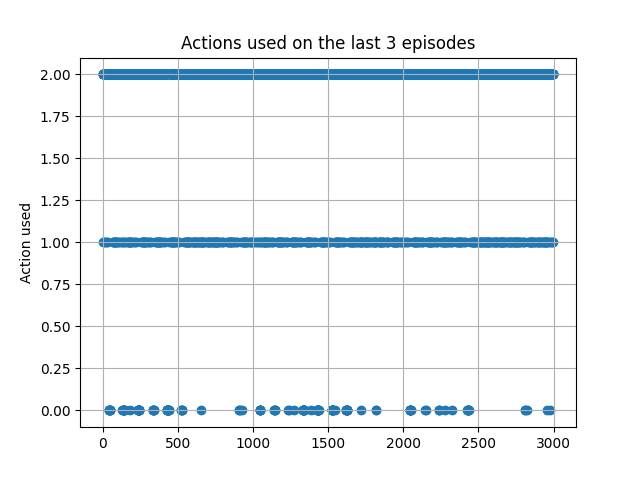
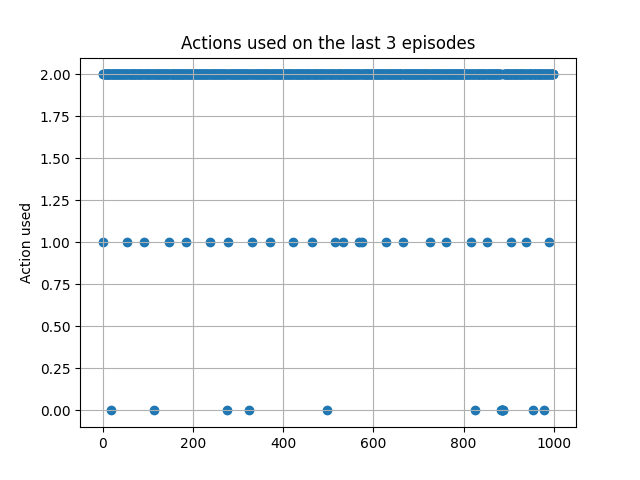
EXP : redo experiments with fixed env

diff --git a/scripts/test_DQN.py b/scripts/test_DQN.py
@@ -150,5 +150,5 @@ plt.ylabel('Action used')
 plt.grid()
 plt.show()
 
-pd.DataFrame(rewards,columns=['mean_reward']).to_csv(f'./results/Mean_reward_{env_config['num_episodes']}ep_{env_config['capacity']}cap.csv',sep=',',index=False,header=False)
-pd.DataFrame(np.array(actions_tot).flatten()).to_csv(f'./results/All_actions_{env_config['num_episodes']}ep_{env_config['capacity']}cap_{env_config['time_step_size']}stepsize.csv',sep=',',index=False,header=False)
+pd.DataFrame(rewards,columns=['mean_reward']).to_csv(f'./results/DQL_Mean_reward_{env_config['num_episodes']}ep_{env_config['capacity']}cap.csv',sep=',',index=False,header=False)
+pd.DataFrame(np.array(actions_tot).flatten()).to_csv(f'./results/DQL_All_actions_{env_config['num_episodes']}ep_{env_config['capacity']}cap_{env_config['time_step_size']}stepsize.csv',sep=',',index=False,header=False)

diff --git a/scripts/test_random_policy.py b/scripts/test_random_policy.py
@@ -6,6 +6,7 @@ from scripts.config import env_config
 from src.env import HouseEnv
 from tqdm import tqdm as tqdm
 import random
+import pandas as pd
 import matplotlib.pyplot as plt
 
 num_episodes = env_config['num_episodes'] ; Tmax = env_config['tmax']
@@ -44,3 +45,5 @@ plt.xlabel('Episode')
 plt.ylabel('Mean reward')
 plt.grid()
 plt.show()
+
+pd.DataFrame(rewards,columns=['mean_reward']).to_csv(f'./results/Rd_Mean_reward_{env_config['num_episodes']}ep_{env_config['capacity']}cap.csv',sep=',',index=False,header=False)

diff --git a/scripts/config.py b/scripts/config.py
@@ -8,7 +8,7 @@ Configuration file for launching scripts
 
 env_config = {
     'seed' : 42,
-    'num_episodes' : 100,
+    'num_episodes' : 500,
 
     'capacity' : 100,
     'forecast' : 10,
